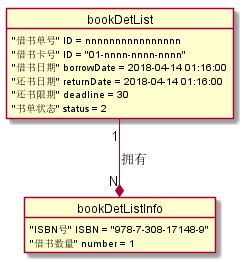
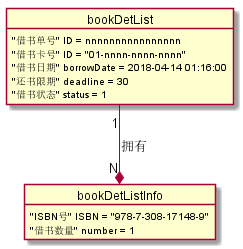
提交

Changed region(s): [[0.0, 0.0281, 1.0, 0.5341], [0.0864, 0.6466, 0.9218, 0.9839], [0.4897, 0.5622, 0.6049, 0.6466]]

diff --git a/test5/README.md b/test5/README.md
@@ -1,0 +1,112 @@
+# 实验五图书管理系统数据库设计与界面设计
+## 5.1 数据库设计说明
+<span style="color:#f00">root:</span>***由于其存在唯一,不给它单独一个数据库的表进行存放,直接存在配置文件内***
+user与bookMenu与bookinfo不是数据库对象,不存数据库
+~~~
+    1. 一共涉及到8张表
+    2. 分别是:
+        a. 借阅者--borrower
+        b. 管理员--admin
+        c. 书籍--book
+        d. 借书单--bookDeList
+        e. 借书详单--bookDeListInfo
+        f. 借书历史--borrowHis
+        g. 借书历史详单--borrowHisInfo
+        h. 罚单--ticket
+    3. 以MySQL5.7版本的数据库为基础设计,PK表示主键,FK表示外键,N表示否,Y表示是
+    4. bookDeListInfo与borrowHisInfo在对象图中对应同一对象(所存储数据完全相同,但持久化时不适合存储到同一表内)
+~~~
+## 5.2数据库设计
+### 5.2.1 借阅者--borrower表
+|字段|类型|主键，外键|可以为空|约束|说明|
+|:-------:|:-------------:|:------:|:----:|:---:|:-----|
+|ID|varchar(15)|PK|N|||
+|pwd|varchar(20)||N|||
+|createTime|datetime||N||
+|status|tinyint||N||
+|firstName|varchar(10)||Y||
+|lastName|varchar(10)||Y||
+|IDCardNo|varchar(18)||Y||
+|email|varchar(25)||Y||
+|m_phoneNumber|varchar(15)||Y||
+|creditRating|varchar(4)||N||
+
+### 5.2.2 管理员--admin表
+|字段|类型|主键，外键|可以为空|约束|说明|
+|:-------:|:-------------:|:------:|:----:|:---:|:-----|
+|ID|varchar(15)|PK|N|||
+|pwd|varchar(20)||N|||
+|createTime|datetime||N||
+|status|tinyint||N||
+|firstName|varchar(10)||Y||
+|lastName|varchar(10)||Y||
+|email|varchar(25)||Y||
+|root|bit||N||
+
+### 5.2.3 书籍--book
+|字段|类型|主键，外键|可以为空|约束|说明|
+|:-------:|:-------------:|:------:|:----:|:---:|:-----|
+|ISBN|varchar(13)|PK|N||
+|name|varchar(100)||N||
+|Label|varchar(50)||N||
+|logo|varchar(100)||Y||
+|info|varchar(150)||Y||
+|price|float||N||
+|publisher|varchar(50)||N||
+|author|varchar(50)||N||
+|publishDate|datetime||N||
+|stock|smallint||N||
+|Number|smallint||N||
+
+### 5.2.4 借书单--bookDeList
+|字段|类型|主键，外键|可以为空|约束|说明|
+|:-------:|:-------------:|:------:|:----:|:---:|:-----|
+|ID|varchar(16)|PK|N||
+|borrower_ID|varchar(15)|FK|N||
+|borrowDate|datetime||N||
+|deadline|smallint||N||
+|status|tinyint||N||
+
+### 5.2.5 借书详单--bookDeListInfo
+|字段|类型|主键，外键|可以为空|约束|说明|
+|:-------:|:-------------:|:------:|:----:|:---:|:-----|
+|ID|int|PK|N||自增|
+|ISBN|varchar(13)|FK|N||
+|number|smallint||N||
+
+### 5.2.6 借书历史--borrowHis
+|字段|类型|主键，外键|可以为空|约束|说明|
+|:-------:|:-------------:|:------:|:----:|:---:|:-----|
+|ID|varchar(16)|PK|N||
+|borrower_ID|varchar(15)|FK|N||
+|borrowDate|datetime||N||
+|returnDate|datetime||Y||
+|deadline|smallint||N||
+|status|tinyint||N||
+|flag|bit|N|||
+
+### 5.2.7 借书历史详单--borrowHisInfo
+|字段|类型|主键，外键|可以为空|约束|说明|
+|:-------:|:-------------:|:------:|:----:|:---:|:-----|
+|ID|int|PK|N||自增|
+|ISBN|varchar(13)|FK|N||
+|number|smallint||N||
+
+### 5.2.8 罚单--ticket
+|字段|类型|主键，外键|可以为空|约束|说明|
+|:-------:|:-------------:|:------:|:----:|:---:|:-----|
+|ID|int|PK|N||自增|
+|bookDeList_ID|varchar(16)|FK|N||
+|title|varchar(20)||N||
+|info|varchar(200)||N||
+|admin_ID|varchar(15)|FK|N|||
+### 5.2.9 书类--lable
+|字段|类型|主键，外键|可以为空|约束|说明|
+|:-------:|:-------------:|:------:|:----:|:---:|:-----|
+|ID|int|PK|N||自增|
+|info|varchar(50)||N||
+## 5.3 界面设计
+### 5.3.1 书目管理
+#### (1)书目管理--添加书籍
+![书目管理--添加书籍界面](../out/test5/addbook.PNG)
+#### (2)对应API

diff --git a/test3/README.md b/test3/README.md
@@ -202,3 +202,20 @@
     2. 分类什么的,按照一级分类-二级分类-三级分类-...拼起来的,要用到时再取对应的...
 ~~~
 ![书目对象图](../out/test3/objectView/bookMenu.png)
+#### 2.2.8.书籍分类
+~~~
+代码及说明:
+    @startuml Label
+    object Label{
+        "id号" ID = "n"
+        "分类名" info = "计算机类"
+    }
+    @enduml
+
+    1. ID用来当键,info是选择时的值?
+    2. 该对象虽然和book中的lable重复,单该对象值在进行图书添加和修改操作是时
+用来生成约束管理员书类选项的下拉列表的,并不冲突,也不与book形成直接联系于是在类图中
+它与book类无连线,如果持久化两边也没主外键关系
+~~~
+![书目对象图](../out/test3/objectView/Label.png)
+

diff --git a/README.md b/README.md
@@ -29,6 +29,10 @@
     更新了类图,补全了对象图
 3.20180416 21:50
     根据意见删除了类图中的service包,修改了bean包中的关系连线等
+4.20180507 15:24
+    更改了admin与借书历史的对应关系,认为借书菜单没有存在必要进行删除,书单不记录还书日期,将returnDate字段移除
+5.20180507 20:10
+    添加lable类及对象和它的说明
 ~~~
 
 # [实验4:图书管理系统顺序图绘制](/test4)
@@ -37,4 +41,9 @@
     初步完成项目
 2.20180428 22:51
     完善
+~~~
+# [实验5:图书管理系统数据库设计与界面设计](/test5)
+~~~
+1.20180427 22:55
+    创建项目,然而并不知道什么时候开始
 ~~~
